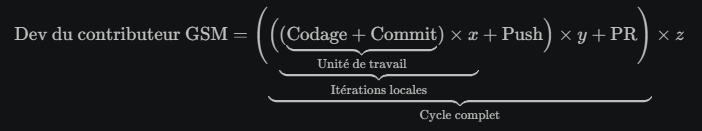
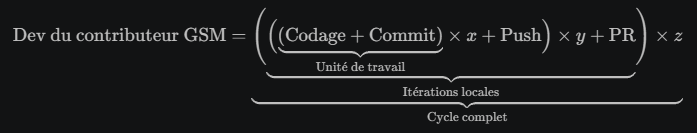
Corr equation

diff --git a/THERA.md b/THERA.md
@@ -73,29 +73,31 @@ Allez, la philo, c'est sympa, mais ça fait pas chauffer tant que ça les proces
 
 ##### Technique
 
-1. Le **[Git](https://fr.wikipedia.org/wiki/Git)** — Savoir (ou apprendre) : Clone, Commit, Push, Pull, Branch, PR… Bref, les bases (Et ça suffit large, pour démarrer)
+1. Le **[Git](https://fr.wikipedia.org/wiki/Git)** — Savoir (ou apprendre) : Fork, Clone, Branch, Commit, Push, Pull, PR… Bref, les bases (Et ça suffit large, pour démarrer et Être)
 
 2. Avoir **1 éditeur privilégié** ([VSCode hautement préconisé](https://code.visualstudio.com/) - Gratos, et de très nombreuses extensions existent, dont beaucoup pour le Git... Comme par hasard... Et qui rende son usage (celui du Git) aussi ludique qu'[une partie de Tétris](https://fr.wikipedia.org/wiki/Tetris) !)
 
 3. Algorithmie — Pas besoin d’être un '[Knuth](https://fr.wikipedia.org/wiki/Donald_Knuth)', mais comprendre ce qu’est une variable, une boucle, une condition, une fonction, c’est mieux. Note: Si vous avez juste commencé un jour un tuto de n'importe quel langage, ceci est assurément atteint et fait ! 😊
 
-→ Bref, vous êtes absolument et assurément APTE à contribuer, car si il manque une c*h*ouille (une brindille - Heureusement que là aussi, j'ai bien mis le 'h'... ;-) ), alors quelques minutes (voire heures) suffisent pour l'être !
+→ Bref, vous êtes absolument et assurément APTE à contribuer, car si il manque une c*h*ouille (une brindille - Heureusement que là aussi, j'ai bien mis le 'h'... 🫨 ), alors quelques minutes (voire heures) suffisent pour l'être !
 
 Une seule chose ne compte maintenant !
 
 ### ==> **VOTRE DÉCISION !!!**
 
-Elle est MAJEURE, et doit être immédiate ! Car demain veut souvent dire jamais !
+Elle est **MAJEURE**, et doit être immédiate ! Car demain veut souvent dire jamais !
 
-Et au final, surtout, c'est VOTRE Vie, et donc logiquement, selon VOTRE seule décision !
+Et au final, surtout, c'est **VOTRE Vie**, et **donc** logiquement, selon **VOTRE seule décision** !
 
 ## 🚀 Comment contribuer ?
 
-Wahooo :-) ! Si vous lisez encore, là, maintenant, ces mots, alors arrêtez-de vous mentir ! C'est que vous avez déjà décidé ! Car sinon, c'est tellement si facile de zapper, de basculer et de passer à autre chose... Alors vraiment, et du fond du coeur: Bravos, et Merci 😊 !
+## Wahooo 👏 ✌️ 👍 🤝 🥰 🥳 💪 !
+
+En effet, si vous lisez encore, là, maintenant, ces mots, alors arrêtez-de vous mentir ! C'est que vous avez déjà décidé ! Car sinon, c'est tellement si facile de zapper, de basculer et de passer à autre chose... Alors vraiment, et du fond du coeur: Bravos, et Merci 😊 !
 
 Donc, attaquons les choses concrètement utiles (Et, + cool, dorénavant, car vu qu'on "bosse" ensemble maintenant, on s'tutoie, ok 😉 ?) :
 
-Ci-dessous, voici les grandes lignes  mais ne pas hésiter à consulter [./doc/0101_GIT_FORK](./doc/0101_GIT_FORK.md) à la moindre difficulté *(Et même si vous savez tout accomplir spontanément, parcourez-le tout de même rapidement, car on est jamais à l'abri de découvrir un Tip (Une astuce)...)*
+Ci-dessous, voici les grandes lignes  mais ne pas hésiter à consulter [le programme détaillé (./doc/0101_GIT_FORK)](./doc/0101_GIT_FORK.md) à la moindre difficulté *(Et même si vous savez tout accomplir spontanément, parcourez-le tout de même rapidement, car on est jamais à l'abri de découvrir un Tip (Une astuce) ou autre...)*
 
 ### 1. [Forke, clône, & utilise le dépôt en local](./doc/0101_GIT_FORK.md)
 

diff --git a/doc/0401_PY.md b/doc/0401_PY.md
@@ -4,11 +4,11 @@
 
 ```mermaid
 graph LR
-  A[**Objectif**]---->B{Plantage ?};
-  B---->|Oui| C[Investigations...];
-  C--->D[Debugage];
-  D-->B;
-  B------>|Non| E[Succès → Objectif atteint !];
+  A[**Objectif**]---->B{Plantage ?}
+  B---->|Oui| C[Investigations...]
+  C--->D[Debugage]
+  D-->B
+  B------>|Non| E[Succès → Objectif atteint !]
 ```
 
 * [ ] To be continued... 🚧